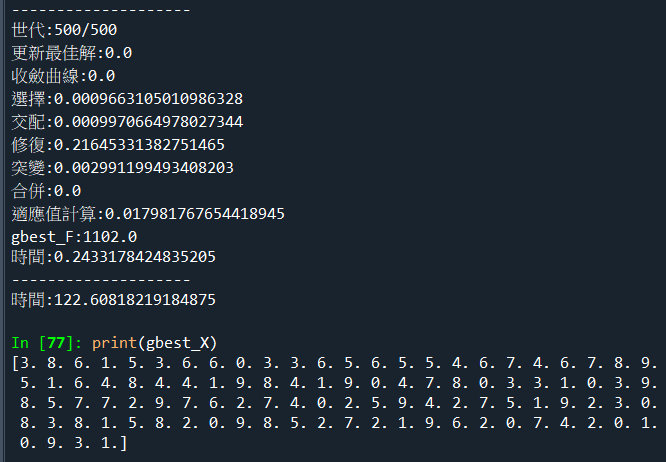
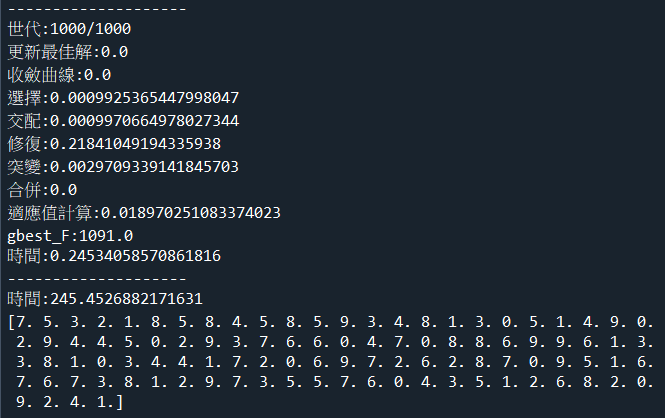
1

Changed region(s): [[0.0, 0.0, 0.9925, 1.0]]

diff --git a/main.py b/main.py
@@ -14,7 +14,7 @@ import benchmark
 M = 10
 N = 10
 P = 60
-G = 500
+G = 1000
 D = M*N
 
 makespan = functools.partial(benchmark.makespan_10, M=M, N=N)
